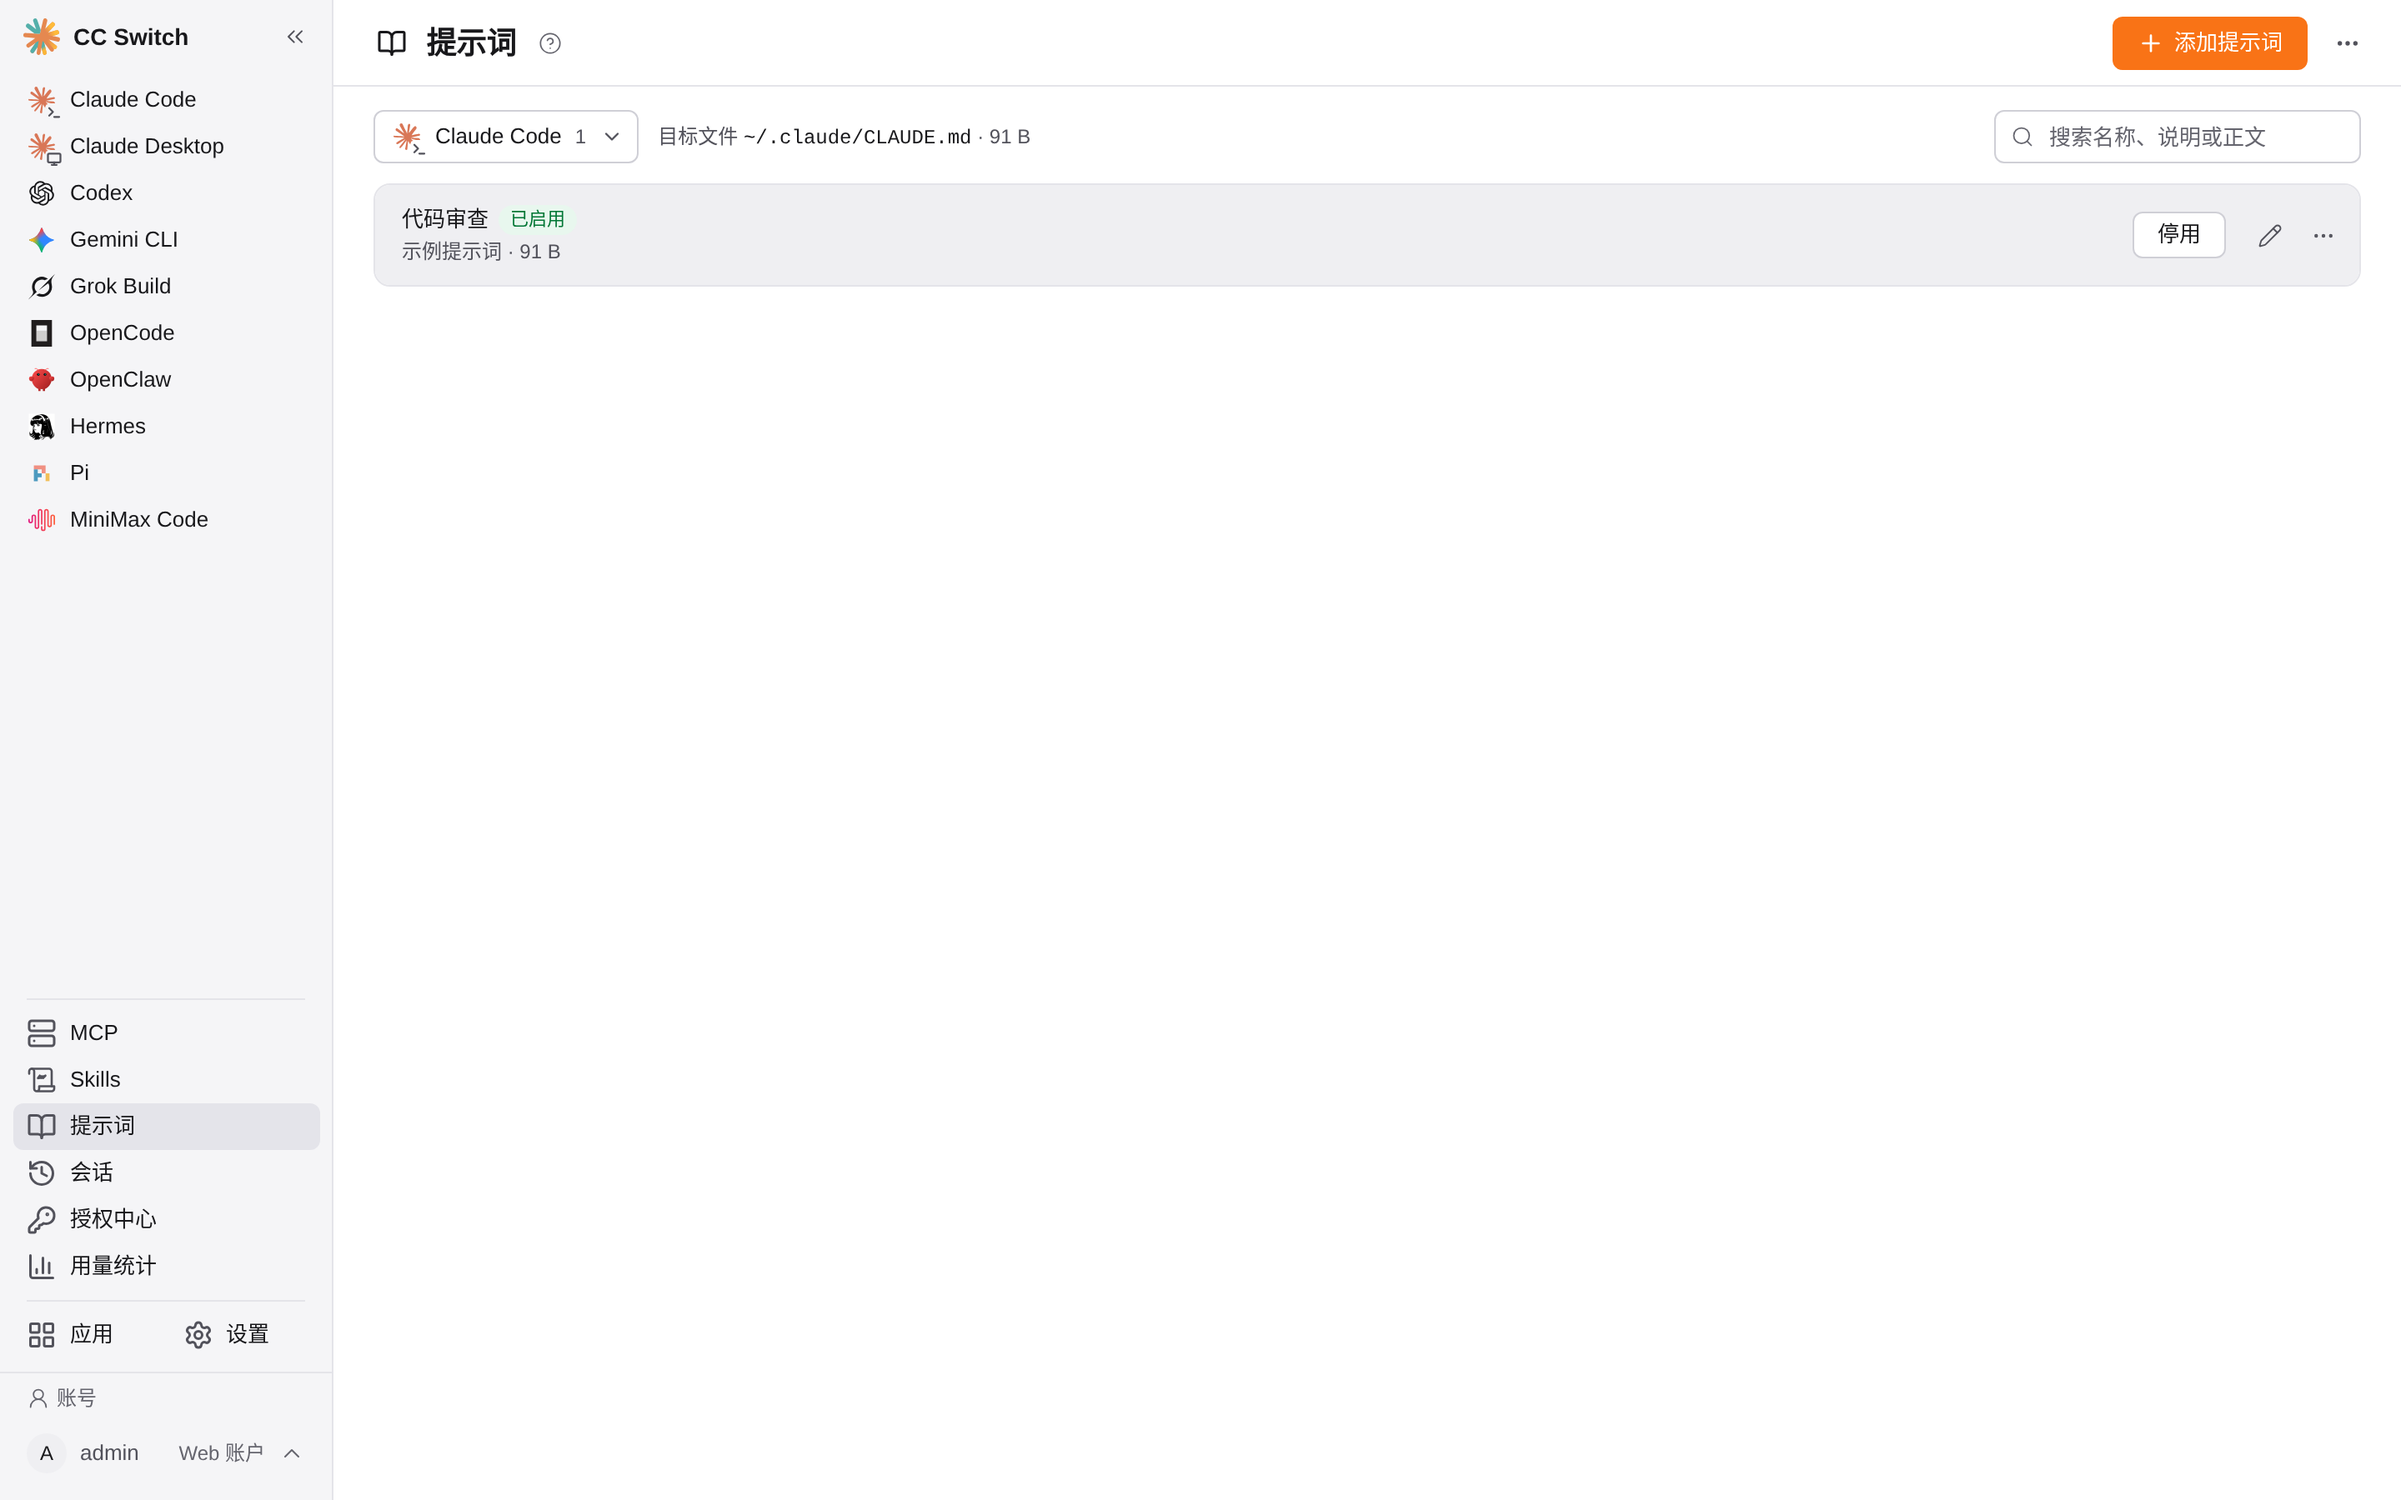
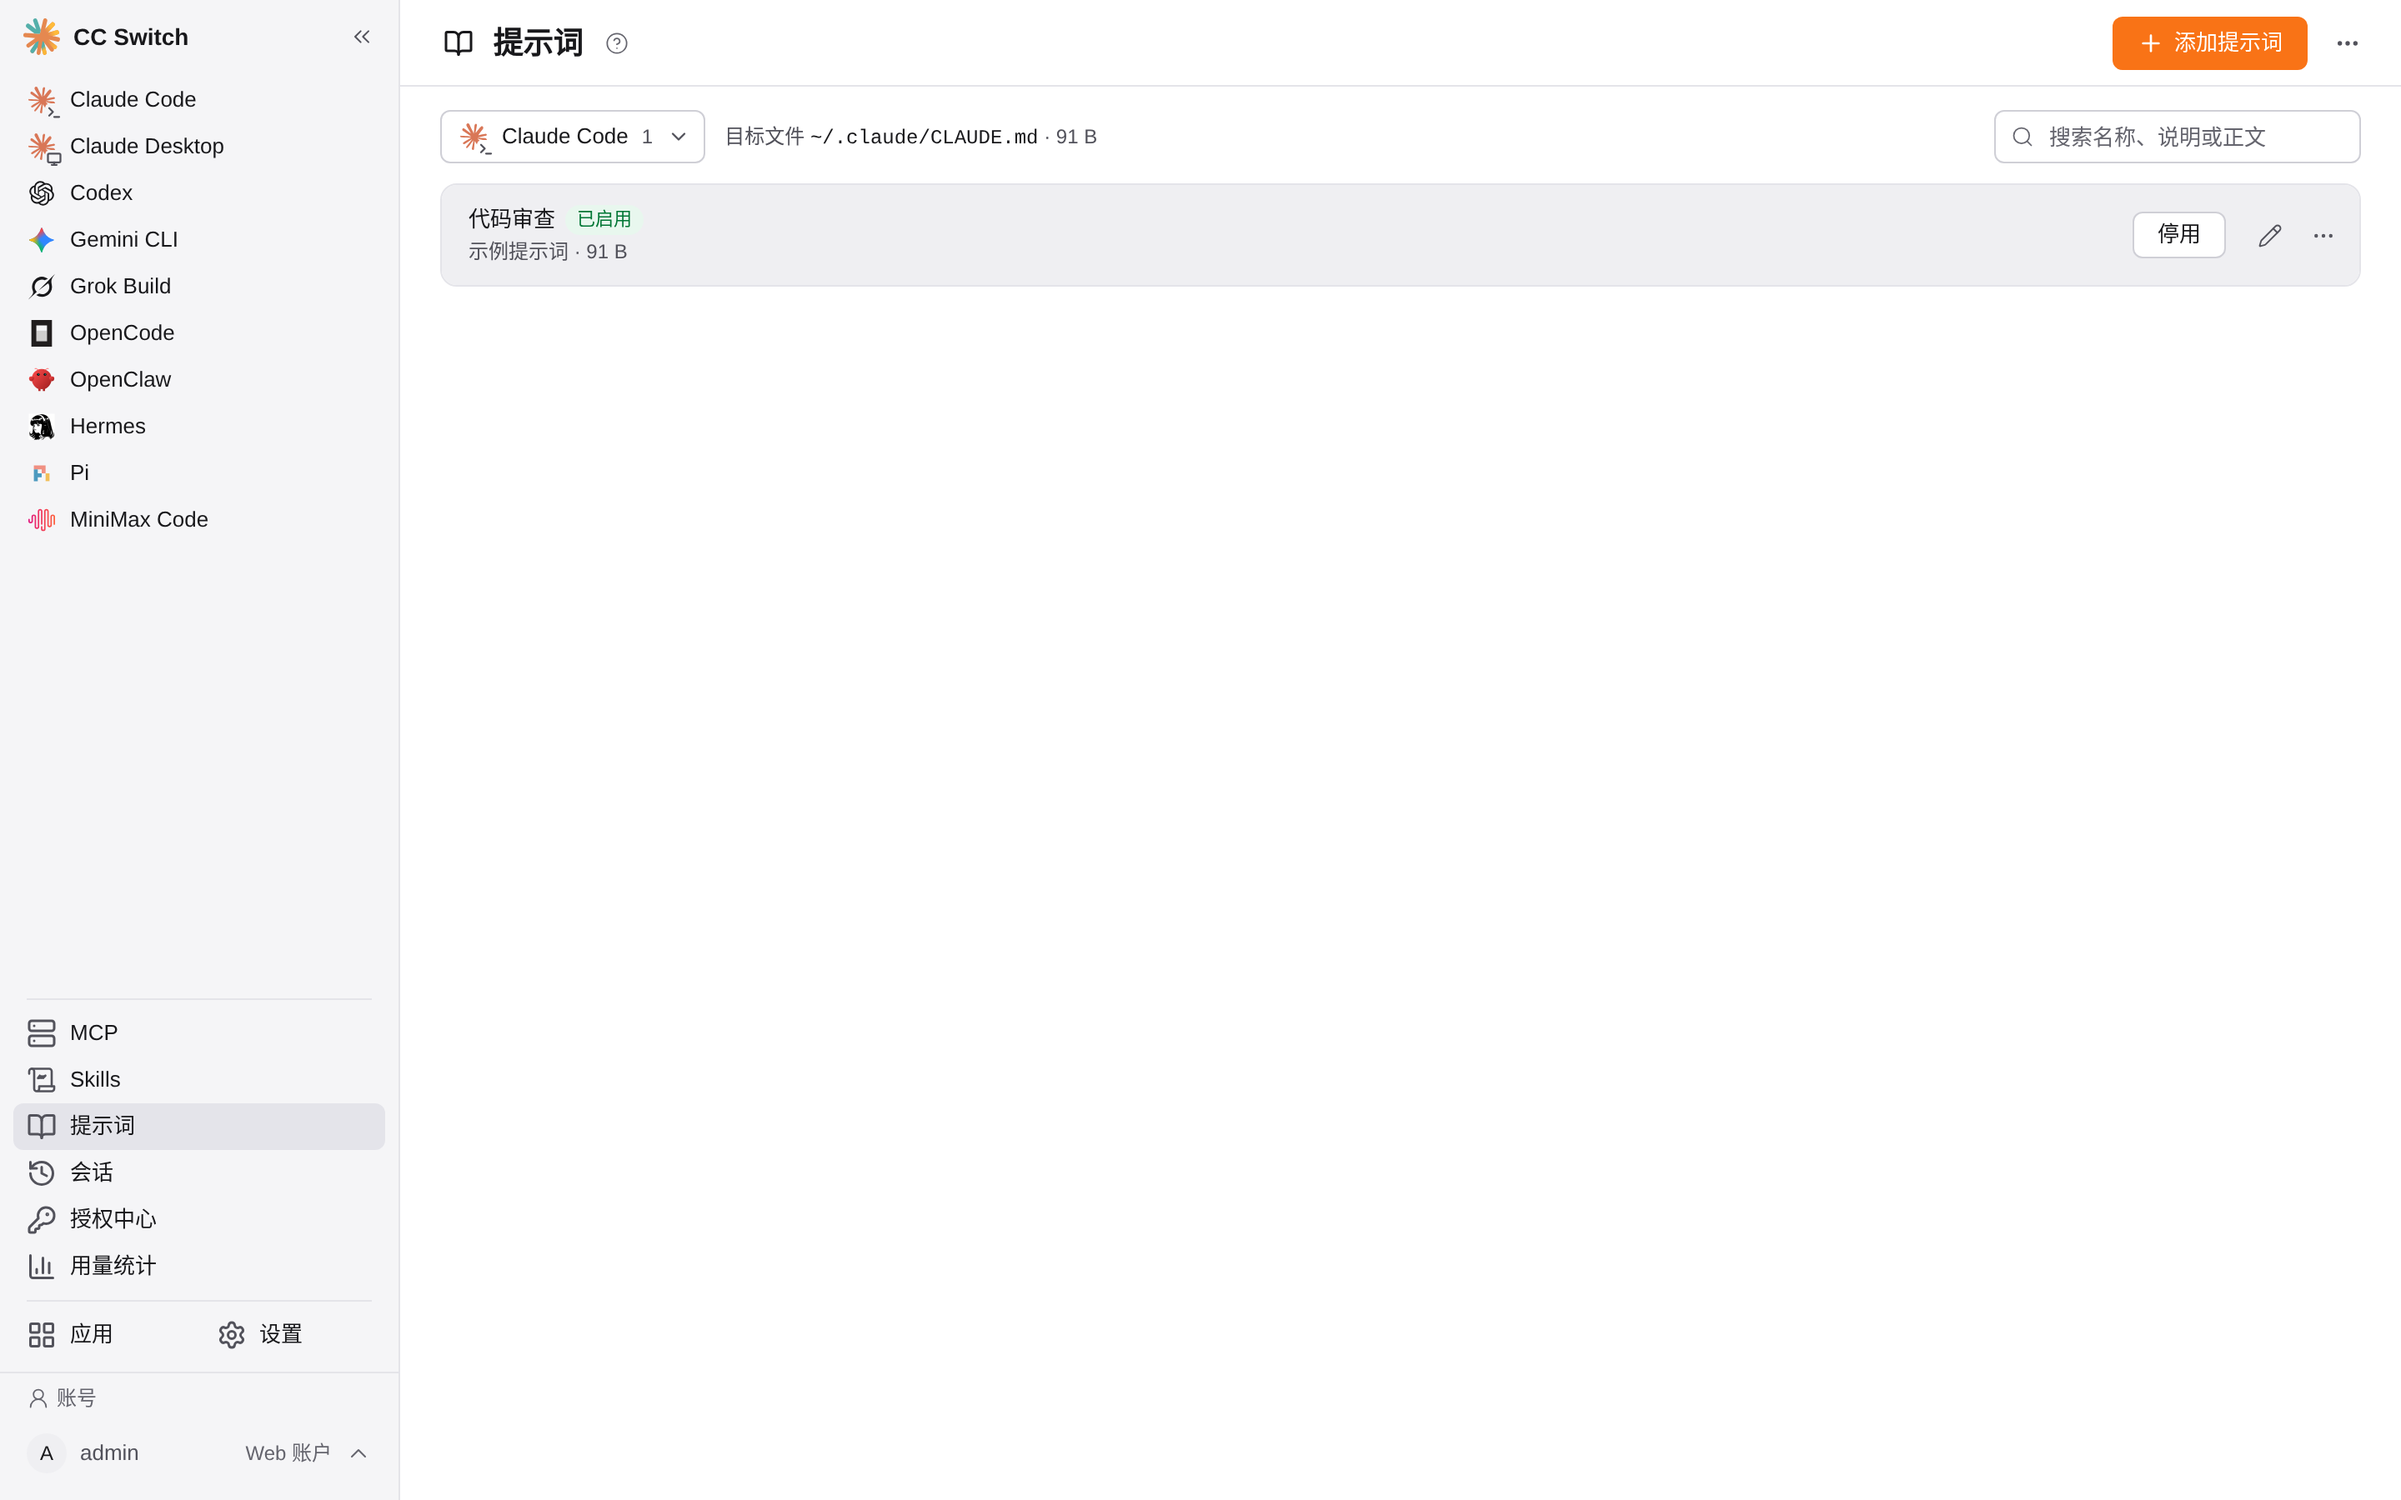
style(sidebar): widen expanded sidebar to 240px

diff --git a/src/components/shell/Sidebar.tsx b/src/components/shell/Sidebar.tsx
@@ -481,7 +481,7 @@ function AppNavItem({
       onClick={onSelect}
       aria-current={selected ? "page" : undefined}
       className={cn(
-        "mx-2 flex h-7 w-[184px] shrink-0 items-center gap-2 rounded-control px-2 text-start transition-colors hover:bg-subtle",
+        "mx-2 flex h-7 shrink-0 items-center gap-2 rounded-control px-2 text-start transition-colors hover:bg-subtle",
         selected && "bg-selected font-medium hover:bg-selected",
       )}
     >
@@ -643,7 +643,7 @@ function NavItem({
         aria-current={selected ? "page" : undefined}
         className={cn(
           "flex h-7 shrink-0 items-center gap-2 rounded-control px-2 text-start transition-colors hover:bg-subtle",
-          compact ? "min-w-0 flex-1" : "mx-2 w-[184px]",
+          compact ? "min-w-0 flex-1" : "mx-2",
           selected && "bg-selected font-medium hover:bg-selected",
         )}
       >
@@ -728,7 +728,7 @@ function SettingsDirectory({
         <button
           type="button"
           onClick={onExitSettings}
-          className="mx-2 flex h-7 w-[184px] shrink-0 items-center gap-2 rounded-control px-2 text-start text-fg-2 transition-colors hover:bg-subtle hover:text-fg-1"
+          className="mx-2 flex h-7 shrink-0 items-center gap-2 rounded-control px-2 text-start text-fg-2 transition-colors hover:bg-subtle hover:text-fg-1"
         >
           <ArrowLeft className="h-4 w-4" strokeWidth={1.5} aria-hidden="true" />
           {t("nav.back")}

diff --git a/src/hooks/useSidebarCollapsed.ts b/src/hooks/useSidebarCollapsed.ts
@@ -13,7 +13,7 @@ export const SIDEBAR_AUTO_COLLAPSE_WIDTH = 960;
 
 const STORAGE_KEY = "cc-switch-sidebar-collapsed";
 
-export const SIDEBAR_EXPANDED_WIDTH = 200;
+export const SIDEBAR_EXPANDED_WIDTH = 240;
 /** 收起时的图标轨宽度：macOS 的红绿灯（新版更大）要约 74px，Mac 上放宽到 84 */
 export const sidebarRailWidth = () => (isMac() ? 84 : 72);
 
